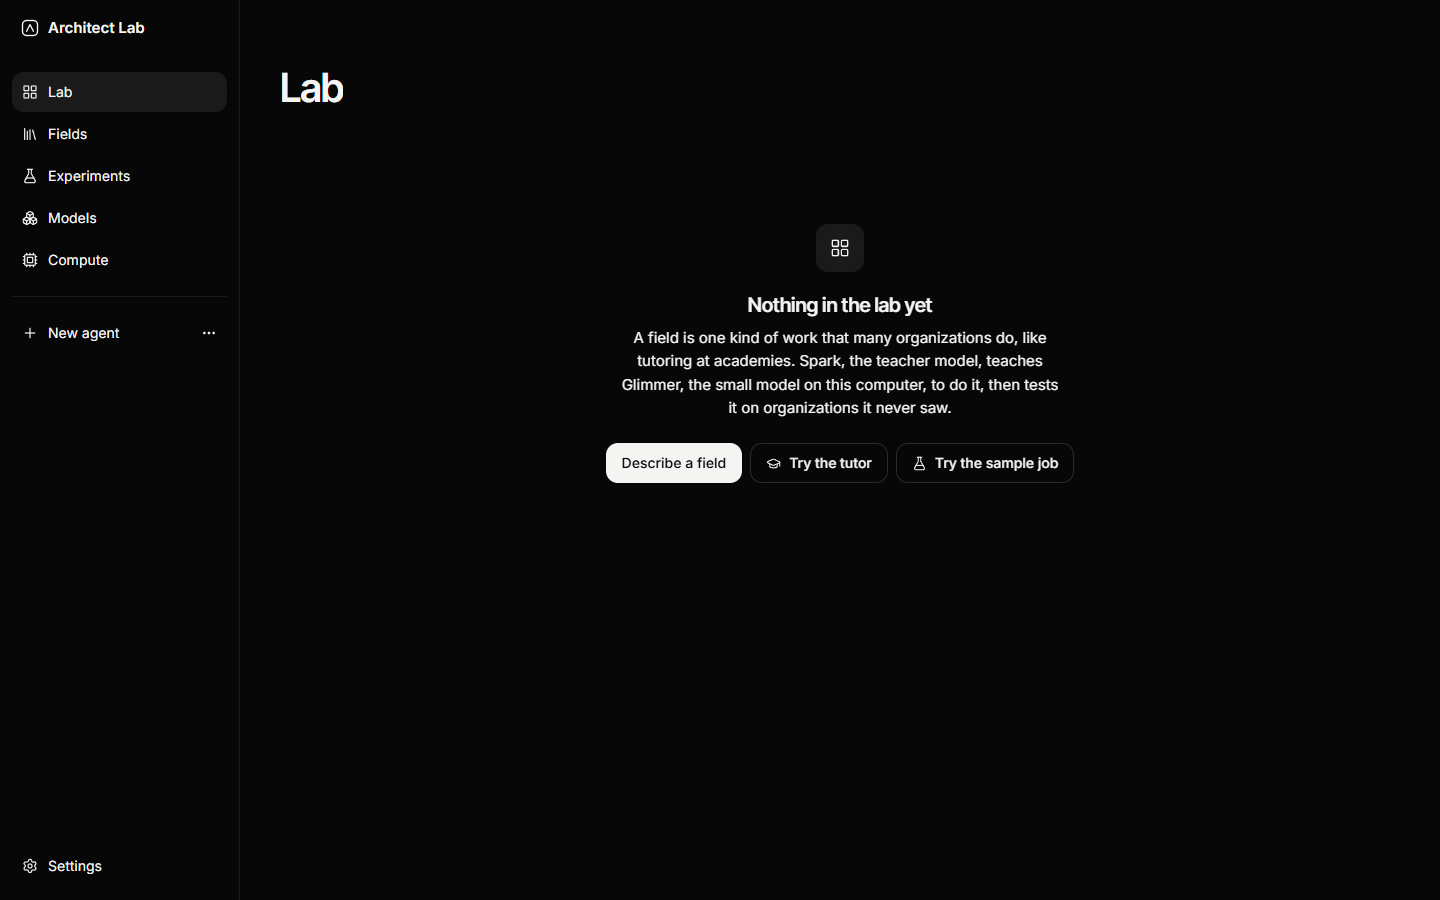
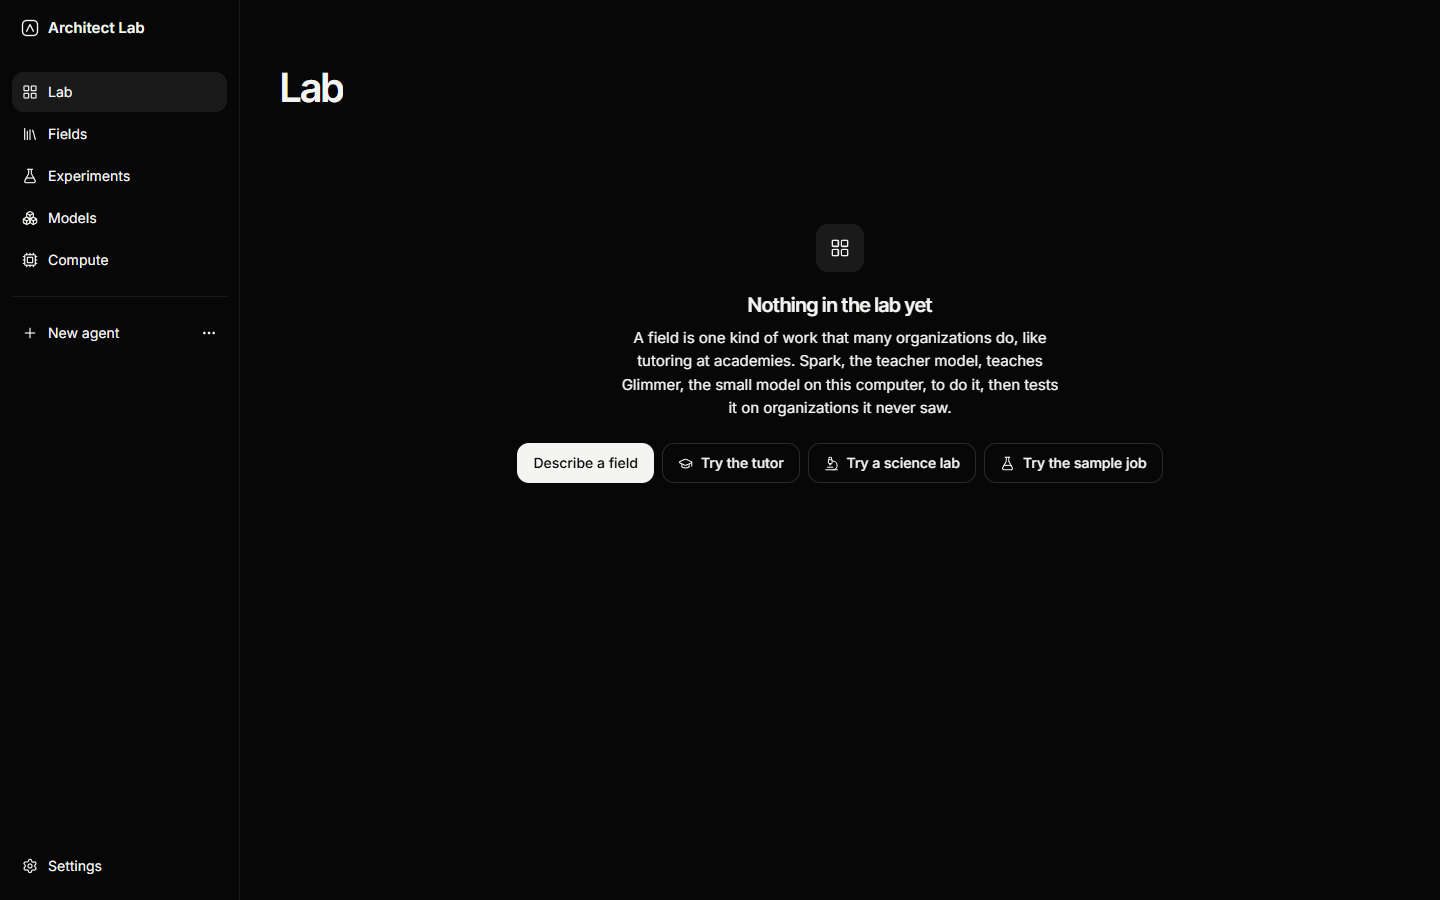
test(e2e): start Sweep desk from the science lab offer, Lab edition only

Changed region(s): [[0.3438, 0.4667, 0.8125, 0.56]]

diff --git a/apps/desktop/e2e/sample-sweep-desk.spec.ts b/apps/desktop/e2e/sample-sweep-desk.spec.ts
@@ -1,0 +1,74 @@
+import { readFileSync } from 'node:fs';
+import { fileURLToPath } from 'node:url';
+import { expect, test } from '@playwright/test';
+import { JobSchema, type Job } from '@architect/shared';
+import { goTo, launchApp, settle, updateSettings, type LaunchedApp } from './app';
+import { EMPTY_ENGINE, stubEngine } from './fixtures';
+import { FLOW_ENGINE, recordedCalls, stubRecorded, taskPlan } from './fixtures-flow';
+
+/*
+ * Sweep desk, offered as a science lab in the Lab edition, on a stand-in engine: the Lab home and
+ * Describe both offer it, and choosing it makes the job and opens Define without the research
+ * group it is never taught on.
+ */
+
+const shipped = JobSchema.parse(
+  JSON.parse(
+    readFileSync(
+      fileURLToPath(new URL('../../../examples/sweep-desk/job/job.json', import.meta.url)),
+      'utf8',
+    ),
+  ),
+);
+const sweepDesk: Job = {
+  ...shipped,
+  organizations: shipped.organizations?.filter((org) => org.role === 'train'),
+};
+
+let launched: LaunchedApp;
+
+test.beforeAll(async () => {
+  launched = await launchApp();
+});
+
+test.afterAll(async () => {
+  await launched?.close();
+});
+
+test('offers a science lab in the Lab edition and starts Sweep desk from it', async () => {
+  const { app, page } = launched;
+  await stubEngine(app, {
+    ...FLOW_ENGINE,
+    ...EMPTY_ENGINE,
+    'jobs:get': sweepDesk,
+    'jobs:save': sweepDesk,
+    'jobs:taskPlan': { ...taskPlan, study: { state: 'unstudied', token: '' } },
+  });
+  await stubRecorded(app, 'jobs:createSample', sweepDesk);
+
+  await updateSettings(page, { onboarded: true, comparisonMode: false, edition: 'personal' });
+  await page.reload();
+  await page.waitForLoadState('domcontentloaded');
+  await goTo(page, '/new');
+  await expect(page.getByRole('button', { name: 'Try the sample job' })).toBeVisible();
+  await expect(page.getByRole('button', { name: 'Try a science lab' })).toHaveCount(0);
+
+  await updateSettings(page, { edition: 'lab' });
+  await goTo(page, '/new');
+  await expect(page.getByRole('button', { name: 'Try a science lab' })).toBeVisible();
+
+  await goTo(page, '/');
+  await expect(page.getByRole('heading', { name: 'Nothing in the lab yet' })).toBeVisible();
+  const offer = page.getByRole('button', { name: 'Try a science lab' });
+  await expect(page.getByRole('button', { name: 'Try the tutor' })).toBeVisible();
+  await offer.hover();
+  await expect(page.getByRole('tooltip')).toContainText("reads a research group's training runs");
+  await settle(page);
+
+  await offer.click();
+  expect(await recordedCalls(app, 'jobs:createSample')).toEqual([['sweep-desk']]);
+  await expect(page).toHaveURL(new RegExp(`#/jobs/${sweepDesk.id}/define`));
+  await expect(page.getByRole('region', { name: 'What Spark understood' })).toBeVisible();
+  // Nothing of the group kept for the final test is on the page.
+  await expect(page.getByText(/Fennick/)).toHaveCount(0);
+});

diff --git a/apps/desktop/e2e/editions.spec.ts b/apps/desktop/e2e/editions.spec.ts
@@ -131,6 +131,7 @@ test('the personal home opens the chat used last, and Describe offers no tutor',
   await expect(page.getByRole('button', { name: 'Try the sample job' })).toBeVisible();
   await expect(page.getByRole('button', { name: 'Import a job file' })).toBeVisible();
   await expect(page.getByRole('button', { name: 'Try the tutor' })).toHaveCount(0);
+  await expect(page.getByRole('button', { name: 'Try a science lab' })).toHaveCount(0);
 });
 
 test('the Lab home leads with its places, and Describe offers the tutor too', async () => {
@@ -143,6 +144,7 @@ test('the Lab home leads with its places, and Describe offers the tutor too', as
   );
   await goTo(page, '/new');
   await expect(page.getByRole('button', { name: 'Try the tutor' })).toBeVisible();
+  await expect(page.getByRole('button', { name: 'Try a science lab' })).toBeVisible();
   await expect(page.getByRole('button', { name: 'Try the sample job' })).toBeVisible();
   await goTo(page, '/models');
   await expect(page).toHaveURL(/#\/models$/);
